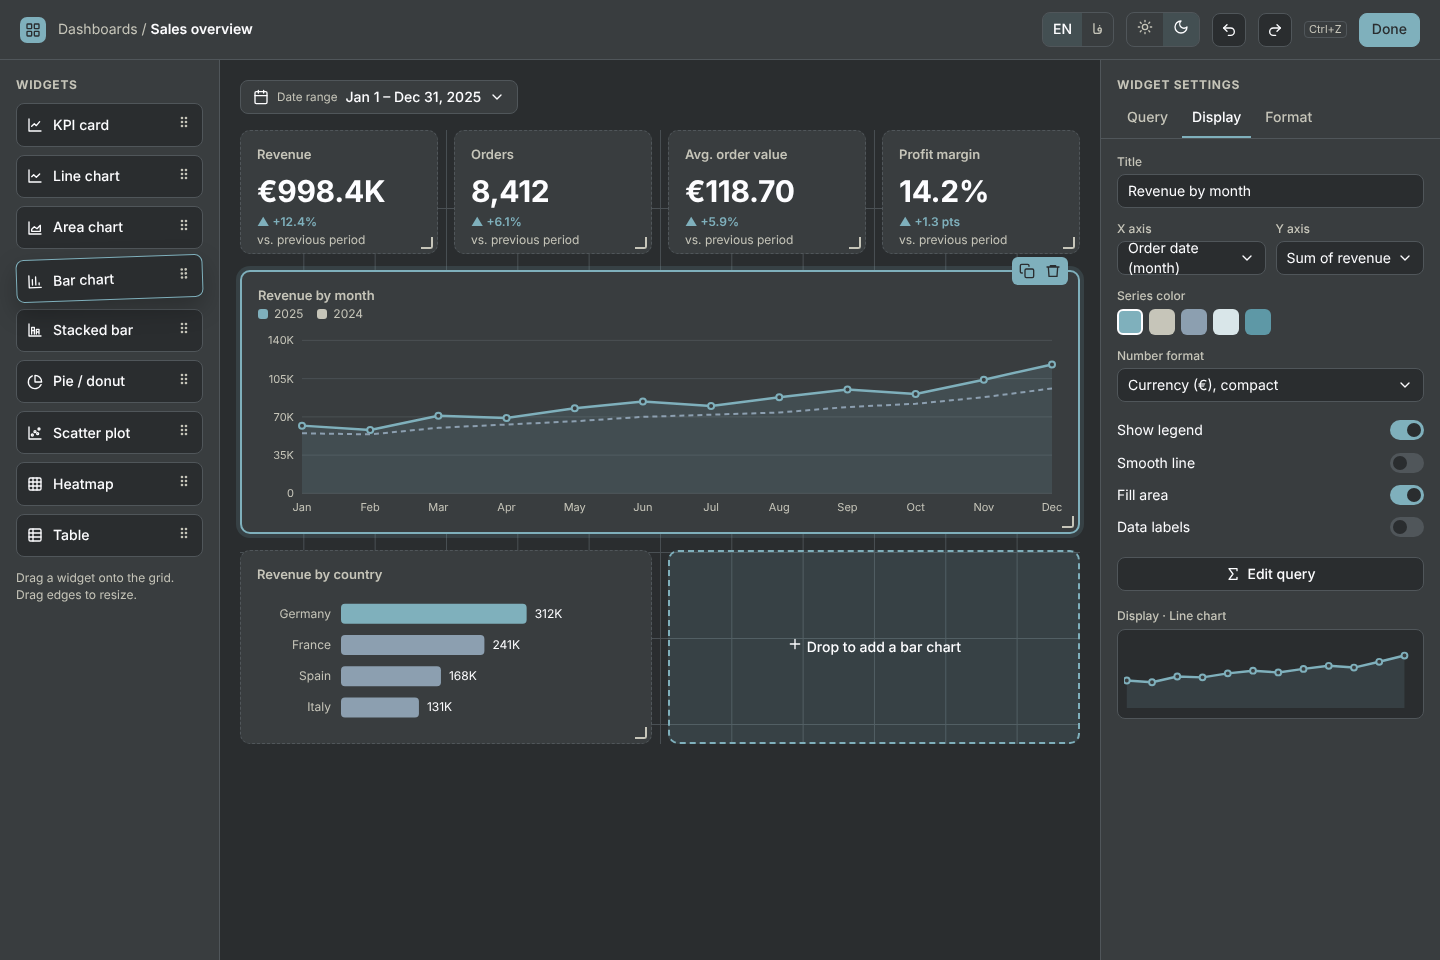
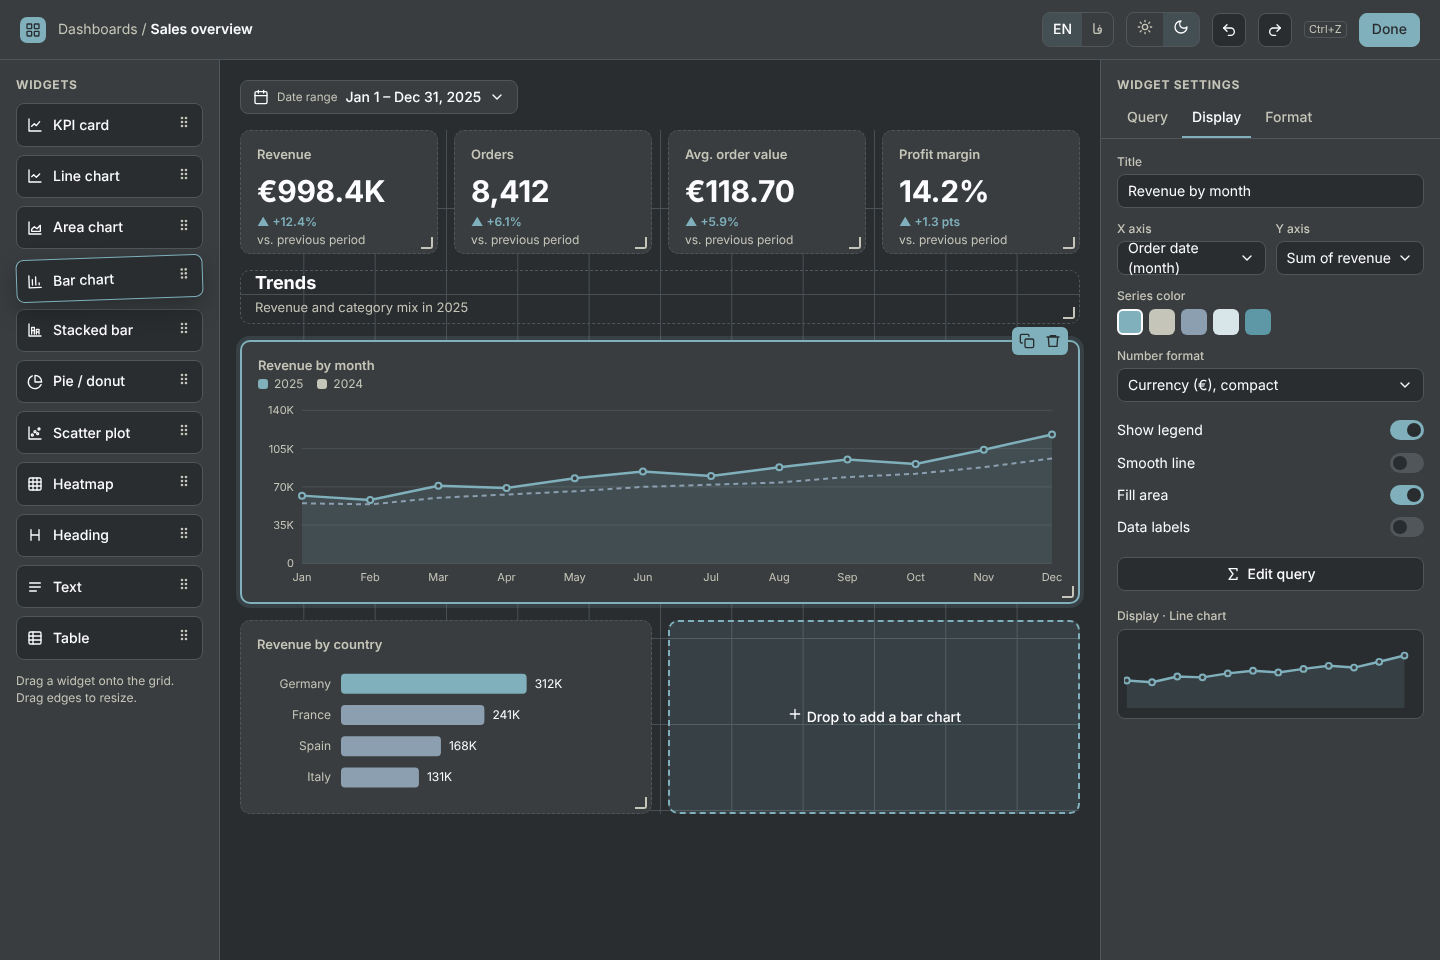
docs: add heading and text widgets, keep K suffix in Persian
Claude-Session: https://claude.ai/code/session_01VVghLNdVHfbJ8wWHPoTDxt

diff --git a/docs/mockups/mockup.html b/docs/mockups/mockup.html
@@ -178,6 +178,14 @@
   .donut-wrap { display: flex; align-items: center; justify-content: center; gap: 20px; height: 100%; }
   .donut-leg { display: grid; gap: 8px; font-size: 13px; }
   .donut-leg i { display: inline-block; width: 10px; height: 10px; border-radius: 3px; margin-inline-end: 8px; }
+  .wh { grid-column: span 12; display: flex; flex-direction: column; justify-content: flex-end; padding-block-end: 6px; border-block-end: 1px solid var(--border); position: relative; }
+  .wh h2 { margin: 0; font-size: 18px; }
+  .wh p { margin: 2px 0 0; color: var(--muted); font-size: 13px; }
+  .edit .wh { border: 1px dashed var(--border); border-radius: var(--radius); padding: 6px 14px; }
+  .note { font-size: 14px; line-height: 1.7; margin-block-start: 6px; }
+  .note p { margin: 0 0 8px; }
+  .note ul { margin: 0 0 8px; padding-inline-start: 18px; }
+  .note a { color: var(--accent); text-decoration: underline; text-underline-offset: 3px; }
   .mini svg { width: 100%; height: 100%; display: block; }
   .meta { font-size: 12px; color: var(--muted); display: flex; gap: 14px; }
 </style>
@@ -195,11 +203,19 @@ document.documentElement.lang = lang;
 document.documentElement.dir = fa ? 'rtl' : 'ltr';
 
 const nf = new Intl.NumberFormat(fa ? 'fa-IR' : 'en-US');
-const cf = new Intl.NumberFormat(fa ? 'fa-IR' : 'en-US', { notation: 'compact', maximumFractionDigits: 1 });
+const nf1 = new Intl.NumberFormat(fa ? 'fa-IR' : 'en-US', { maximumFractionDigits: 1 });
+const cf = {
+  format: (x) => {
+    const a = Math.abs(x);
+    if (a >= 1e6) return nf1.format(x / 1e6) + 'M';
+    if (a >= 1e3) return nf1.format(x / 1e3) + 'K';
+    return nf1.format(x);
+  },
+};
 const n = (x) => nf.format(x);
 const loc = fa ? 'fa-IR' : 'en-US';
 const eur = (x) => new Intl.NumberFormat(loc, { style: 'currency', currency: 'EUR', maximumFractionDigits: 0 }).format(x);
-const eurC = (x) => new Intl.NumberFormat(loc, { style: 'currency', currency: 'EUR', notation: 'compact', maximumFractionDigits: 1 }).format(x);
+const eurC = (x) => '€' + cf.format(x);
 const pct = (x, sign) => new Intl.NumberFormat(loc, { style: 'percent', maximumFractionDigits: 1, signDisplay: sign ? 'always' : 'auto' }).format(x / 100);
 const d = (s) => (fa ? String(s).replace(/[0-9]/g, (c) => '۰۱۲۳۴۵۶۷۸۹'[c]) : s);
 
@@ -215,6 +231,9 @@ const T = {
     countries: ['Germany','France','Spain','Italy','Netherlands','Austria'],
     cats: ['Technology','Furniture','Office supplies','Accessories'],
     prods: [['Standing desk','Furniture',412,'186,420'],['Noise-cancel headset','Technology',980,'147,000'],['Ergonomic chair','Furniture',377,'131,950'],['4K monitor 27″','Technology',301,'105,350'],['Desk lamp','Accessories',1204,'48,160']],
+    headingW: 'Heading', textW: 'Text',
+    h1: ['Trends', 'Revenue and category mix in 2025'], h2: ['Orders and products', 'When customers buy and what sells best'],
+    noteT: 'Notes', note: '<p>Revenue grew <b>12.4%</b> year over year, led by <b>Technology</b> in Q4.</p><ul><li>Discounts above 25% rarely make a profit.</li><li>Most orders arrive on weekdays between 10:00 and 16:00.</li></ul><p><a>Read the full report</a></p>',
     areaChart: 'Area chart', stacked: 'Stacked bar', scatter: 'Scatter plot', heatmap: 'Heatmap',
     byCatQ: 'Revenue by category per quarter', heatT: 'Orders by weekday and hour', scatterT: 'Discount vs. profit per order', areaT: 'Cumulative profit',
     showAs: 'Show as', rowsOf: (a, b, c) => `Rows ${a}–${b} of ${c}`, perPage: '5 per page', quarters: ['Q1', 'Q2', 'Q3', 'Q4'], discount: 'Discount', profit: 'Profit',
@@ -244,6 +263,9 @@ const T = {
     countries: ['آلمان','فرانسه','اسپانیا','ایتالیا','هلند','اتریش'],
     cats: ['فناوری','مبلمان','لوازم اداری','لوازم جانبی'],
     prods: [['میز ایستاده','مبلمان',412,'186,420'],['هدست حذف نویز','فناوری',980,'147,000'],['صندلی ارگونومیک','مبلمان',377,'131,950'],['مانیتور ۲۷ اینچ','فناوری',301,'105,350'],['چراغ مطالعه','لوازم جانبی',1204,'48,160']],
+    headingW: 'تیتر', textW: 'متن',
+    h1: ['روندها', 'درآمد و ترکیب دستهها در سال ۲۰۲۵'], h2: ['سفارشها و محصولات', 'مشتریها کی میخرند و چه چیزی بیشتر فروش میرود'],
+    noteT: 'یادداشت', note: '<p>درآمد نسبت به سال قبل <b>۱۲٫۴٪</b> رشد کرد و بیشترین سهم را <b>فناوری</b> در فصل چهارم داشت.</p><ul><li>تخفیفهای بالای ۲۵٪ بهندرت سودآورند.</li><li>بیشتر سفارشها در روزهای کاری بین ساعت ۱۰ تا ۱۶ ثبت میشوند.</li></ul><p><a>گزارش کامل را بخوانید</a></p>',
     areaChart: 'نمودار ناحیهای', stacked: 'میلهای انباشته', scatter: 'نمودار پراکندگی', heatmap: 'نقشهٔ حرارتی',
     byCatQ: 'درآمد هر دسته در هر فصل', heatT: 'سفارشها بر اساس روز و ساعت', scatterT: 'تخفیف در برابر سود هر سفارش', areaT: 'سود تجمعی',
     showAs: 'نمایش بهصورت', rowsOf: (a, b, c) => `ردیف ${a} تا ${b} از ${c}`, perPage: '۵ در هر صفحه', quarters: ['فصل ۱', 'فصل ۲', 'فصل ۳', 'فصل ۴'], discount: 'تخفیف', profit: 'سود',
@@ -290,6 +312,8 @@ const ic = {
   area: '<path d="M3 3v18h18"/><path d="M7 17v-3l4-4 4 3 5-5v9Z"/>',
   stack: '<path d="M3 3v18h18"/><path d="M7 18V8h4v10M14 18v-7h4v7M7 13h4M14 15h4"/>',
   scatter: '<path d="M3 3v18h18"/><circle cx="8" cy="15" r="1.5"/><circle cx="12" cy="10" r="1.5"/><circle cx="16" cy="13" r="1.5"/><circle cx="18" cy="6" r="1.5"/>',
+  heading: '<path d="M6 4v16M18 4v16M6 12h12"/>',
+  text: '<path d="M4 6h16M4 12h16M4 18h10"/>',
   heat: '<rect x="3" y="3" width="18" height="18" rx="2"/><path d="M3 9h18M3 15h18M9 3v18M15 3v18"/>',
   chevS: fa ? '<path d="m9 18 6-6-6-6"/>' : '<path d="m15 18-6-6 6-6"/>',
   chevE: fa ? '<path d="m15 18-6-6 6-6"/>' : '<path d="m9 18 6-6-6-6"/>',
@@ -480,7 +504,7 @@ const kpis = [
 ];
 
 function kpiCard([t, v, delta], extra = '') {
-  return `<div class="card kpi" style="grid-column:span 3;grid-row:span 2">${extra}<h3>${t}</h3><div class="v">${v}</div><div class="d"><span class="up">▲ ${delta}</span>${T.vsPrev}</div></div>`;
+  return `<div class="card kpi" style="grid-column:span 3;grid-row:span 2">${extra}<h3>${t}</h3><div class="v"><bdi dir="ltr">${v}</bdi></div><div class="d"><span class="up">▲ ${delta}</span>${T.vsPrev}</div></div>`;
 }
 
 function dashboardGrid(edit) {
@@ -488,7 +512,9 @@ function dashboardGrid(edit) {
   const sel = edit ? '<div class="toolbar-mini"><span>' + I('copy') + '</span><span>' + I('trash') + '</span></div>' : '';
   const handle = edit ? '<div class="handle"></div>' : '';
   const more = edit ? '' : `<span class="more" style="color:var(--muted)">${I('more')}</span>`;
+  const headingW = ([t, sub]) => `<div class="wh">${handle}<h2>${t}</h2><p>${sub}</p></div>`;
   let g = kpis.map((k) => kpiCard(k, handle)).join('');
+  g += headingW(T.h1);
   g += `<div class="card ${edit ? 'sel' : ''}" style="grid-column:span ${edit ? 12 : 8};grid-row:span ${edit ? 4 : 5}">${sel}${handle}<h3>${T.byMonth}${more}</h3>${legend(['2025', '2024'])}${C((w, h) => lineChart(w, h, [{ data: revenue, c: 'var(--s1)' }, { data: prev, c: 'var(--s3)', dash: true }], months, { area: true }))}</div>`;
   if (!edit) {
     const card = (span, title, body, cls = '') => `<div class="card ${cls}" style="grid-column:span ${span};grid-row:span 5"><h3>${title}${more}</h3>${body}</div>`;
@@ -497,10 +523,12 @@ function dashboardGrid(edit) {
     g += card(4, T.byCat, C((w, h) => donutCard(w, h, cats)));
     g += card(7, T.byCatQ, legend(T.cats) + C((w, h) => stackedBar(w, h)));
     g += card(5, T.byCountry, C((w, h) => barChart(w, h, [312, 241, 168, 131, 88, 58], T.countries)));
+    g += headingW(T.h2);
     g += card(7, T.heatT, C((w, h) => heatmap(w, h)));
     g += card(5, T.scatterT, legend(T.cats) + C((w, h) => scatter(w, h)));
-    g += card(5, T.areaT, C((w, h) => lineChart(w, h, [{ data: cumul, c: 'var(--s3)' }], months, { area: true, noDots: true, every: 2 })));
-    g += card(7, T.top, dataTable([{ t: T.product }, { t: T.cat, m: 1 }, { t: T.qty, n: 1 }, { t: T.rev, n: 1 }], prodRows, { sorted: 3, total: 48 }), 'tcard');
+    g += card(4, T.areaT, C((w, h) => lineChart(w, h, [{ data: cumul, c: 'var(--s3)' }], months, { area: true, noDots: true, every: 2 })));
+    g += card(5, T.top, dataTable([{ t: T.product }, { t: T.cat, m: 1 }, { t: T.qty, n: 1 }, { t: T.rev, n: 1 }], prodRows, { sorted: 3, total: 48 }), 'tcard');
+    g += card(3, T.noteT, `<div class="note">${T.note}</div>`);
   } else {
     g += `<div class="card" style="grid-column:span 6;grid-row:span 3">${handle}<h3>${T.byCountry}</h3>${C((w, h) => barChart(w, h, [312, 241, 168, 131], T.countries.slice(0, 4)))}</div>`;
     g += `<div class="drop" style="grid-column:span 6;grid-row:span 3"><span>${I('plus')} ${T.dropHere}</span></div>`;
@@ -516,7 +544,7 @@ function viewDashboard() {
 }
 
 function viewEdit() {
-  const pal = [['kpi', T.kpi], ['line', T.line], ['area', T.areaChart], ['bar', T.bar], ['stack', T.stacked], ['pie', T.pie], ['scatter', T.scatter], ['heat', T.heatmap], ['table', T.table]];
+  const pal = [['kpi', T.kpi], ['line', T.line], ['area', T.areaChart], ['bar', T.bar], ['stack', T.stacked], ['pie', T.pie], ['scatter', T.scatter], ['heat', T.heatmap], ['heading', T.headingW], ['text', T.textW], ['table', T.table]];
   const months = fa ? T.months.map((m) => m.slice(0, 4)) : T.months;
   return `<div class="app edit">${header('edit')}<main>
     <aside><h4>${T.widgets}</h4><div class="pal">${pal.map(([k, t]) => `<div class="${k === 'bar' ? 'dragging' : ''}">${I(k)}${t}<span class="grip">${I('grip')}</span></div>`).join('')}</div><p class="hint">${T.dragHint}</p></aside>

diff --git a/docs/brief.md b/docs/brief.md
@@ -65,9 +65,14 @@ add features beyond this list without asking.
   count, min, max), group by one or two fields (date fields by day, week, month
   or year), simple filters (AND list), sort, limit. Queries are stored as JSON and
   compiled to safe, parameterized SQL.
-- Widgets (9 types): KPI card, line chart, area chart, bar chart, stacked bar
-  chart, pie/donut chart, scatter plot, heatmap (e.g. weekday × hour), table.
-  The four extra chart types were added by the user on 2026-10-20.
+- Widgets (11 types): KPI card, line chart, area chart, bar chart, stacked bar
+  chart, pie/donut chart, scatter plot, heatmap (e.g. weekday × hour), table,
+  heading (section title with optional subtitle) and text (short formatted
+  note: bold, italic, lists, links; rendered safely, no raw HTML).
+  Area, stacked bar, scatter, heatmap, heading and text were added by the user
+  on 2026-10-20.
+- Compact numbers keep the K/M suffix in both languages (e.g. `€998.4K`,
+  Persian digits in Persian), not the localized "هزار".
 - The table widget is built with TanStack Table (sortable columns, pagination),
   in the widget and in the query builder preview.
 - Drag and drop everywhere it helps: drag a widget type from a palette onto the
@@ -81,7 +86,7 @@ add features beyond this list without asking.
 - Light and dark themes; English and Persian.
 
 Not in scope (maybe later, only if the user asks): raw SQL mode, cross-filtering,
-drill-down, chart types beyond the nine above, maps, pivot tables, auto refresh, PNG/CSV
+drill-down, widget types beyond the eleven above, maps, pivot tables, auto refresh, PNG/CSV
 export, templates gallery.
 
 ## Colors

diff --git a/docs/mockups/README.md b/docs/mockups/README.md
@@ -1,6 +1,6 @@
 # Mockups
 
-Static design mockups for approval before app code: dashboard view (all nine
+Static design mockups for approval before app code: dashboard view (all eleven
 widget types), edit mode
 with the widget settings panel, and the query builder, in dark and light,
 English and Persian. Charts are hand-drawn SVG, not ECharts.
